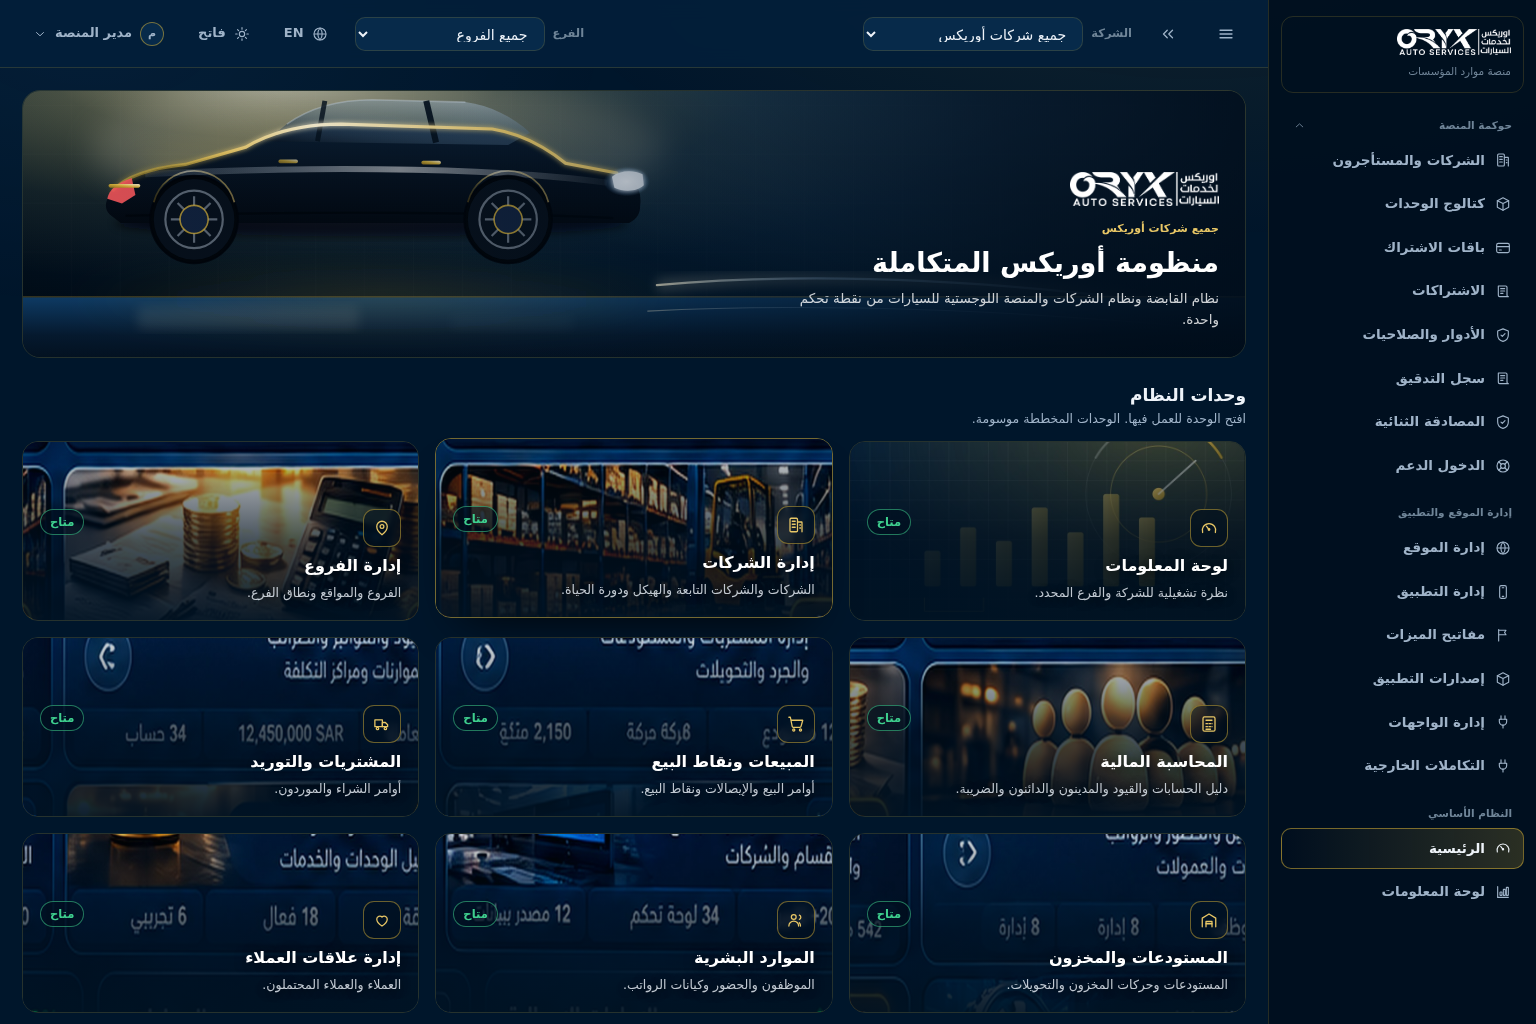
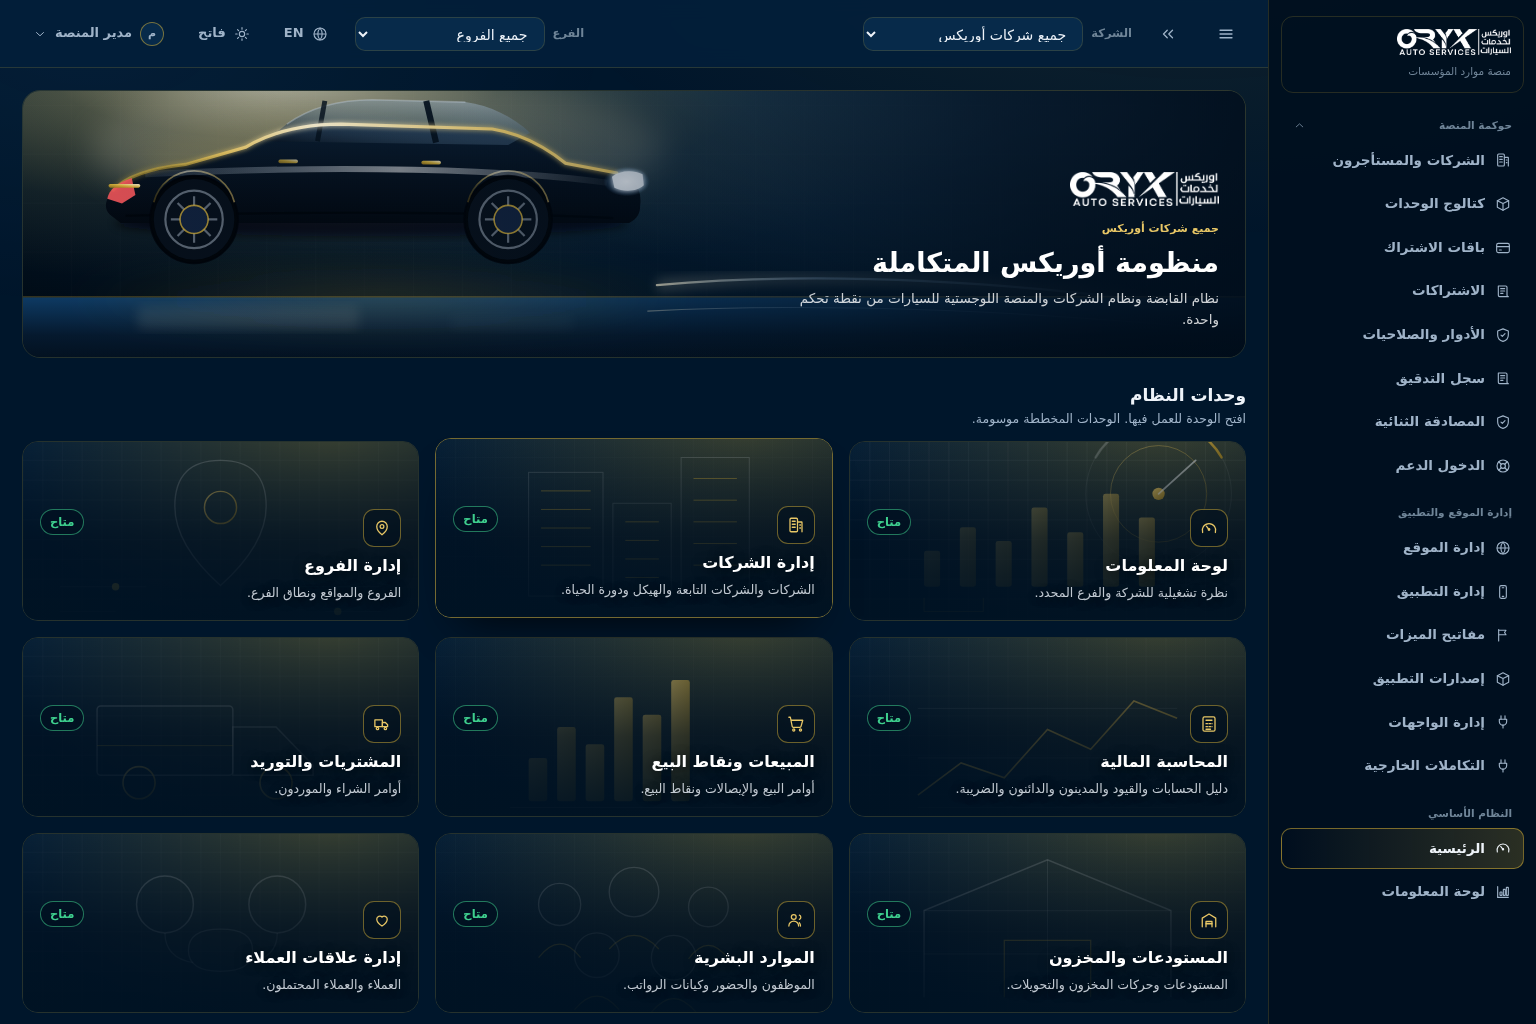
docs(audit): record the tile sweep and the mixed-content harness trap
Refresh the two dashboard preview screenshots against the vector-tile
build; the other twelve captures were byte-identical.

Also add the sandbox-recovery gotcha: a restart drops PostgreSQL, nginx
and the Playwright browser download while keeping the workspace.

diff --git a/docs/audit/06_TEST_AND_CI_RESULTS.md b/docs/audit/06_TEST_AND_CI_RESULTS.md
@@ -57,6 +57,28 @@ Per-spec counts for the browser suite, from the run log:
 unless `CAPTURE_PHASE` is set, so it no longer runs — and no longer rewrites the
 audit images — during `test:ui`.
 
+### The mixed-content trap when pointing the suite at the public host
+
+Running the suite with `ORYX_ADMIN_URL=https://work-1-…all-hands.dev` passes most
+specs but fails exactly the 12 that call `page.evaluate(() => fetch('http://localhost:3001/…'))`
+directly — a plain-HTTP fetch from an HTTPS page, which the browser blocks as
+mixed content and Playwright reports as `TypeError: Failed to fetch`. The 12 are
+`admin.spec.ts` (2), `auth-lifecycle.spec.ts` (2), `erp.spec.ts` (5),
+`functional.spec.ts` (1), `mfa.spec.ts` (2). Use the local proxy URL
+(`http://localhost:12000`) as the report above does; the public HTTPS host is for
+the owner's browser, not for the Node-driven harness.
+
+### Tile-art regression sweep
+
+`branding.spec.ts` sweeps the live dashboard grid. On head `a1ca8aa`:
+
+| Probe | Result |
+|---|---|
+| Module tiles found | 21 |
+| Tiles served as raster crops | **none** |
+| Tiles that failed to decode | **none** |
+| Elements referencing `hero-automotive` | **none** |
+
 ## Shared unit — 93 tests
 
 Covers the authorization invariants, money arithmetic, currency handling,
@@ -90,7 +112,7 @@ AUTH_THROTTLE_LIMIT=100000 THROTTLE_LIMIT=1000000 REFRESH_THROTTLE_LIMIT=100000 
   pnpm --filter @oryx/api test:e2e
 ```
 
-## Admin browser — 129 tests
+## Admin browser — 130 tests
 
 The Playwright suite must run through the reverse proxy, because the preview
 builds use a relative API base (`NEXT_PUBLIC_API_BASE_URL=/api`) so that the

diff --git a/AGENTS.md b/AGENTS.md
@@ -258,6 +258,14 @@ pnpm --filter @oryx/admin test:ui   # Playwright (needs both services running)
 - **`next start` snapshots `public/` at boot.** A newly added asset under
   `apps/admin/public/` 404s until the admin server is restarted; a rebuild alone
   is not enough.
+- **Do not point the browser suite at the public HTTPS host.** The admin bundle
+  is built with a relative API base (`NEXT_PUBLIC_API_BASE_URL=/api`) and several
+  specs call `page.evaluate(() => fetch('http://localhost:3001/…'))` directly. On
+  an HTTPS page the browser blocks that plain-HTTP fetch as mixed content, and
+  Playwright reports `TypeError: Failed to fetch` — 12 specs fail while the rest
+  pass, which reads like a product bug and is not. Use
+  `ORYX_ADMIN_URL=http://localhost:12000`; the public host is for the owner's
+  browser.
 - **A sandbox restart drops system packages but keeps the workspace.**
   PostgreSQL, nginx and the Playwright browser download live outside
   `/workspace`, so they vanish while `.run/pgdata`, the built `dist/` and
